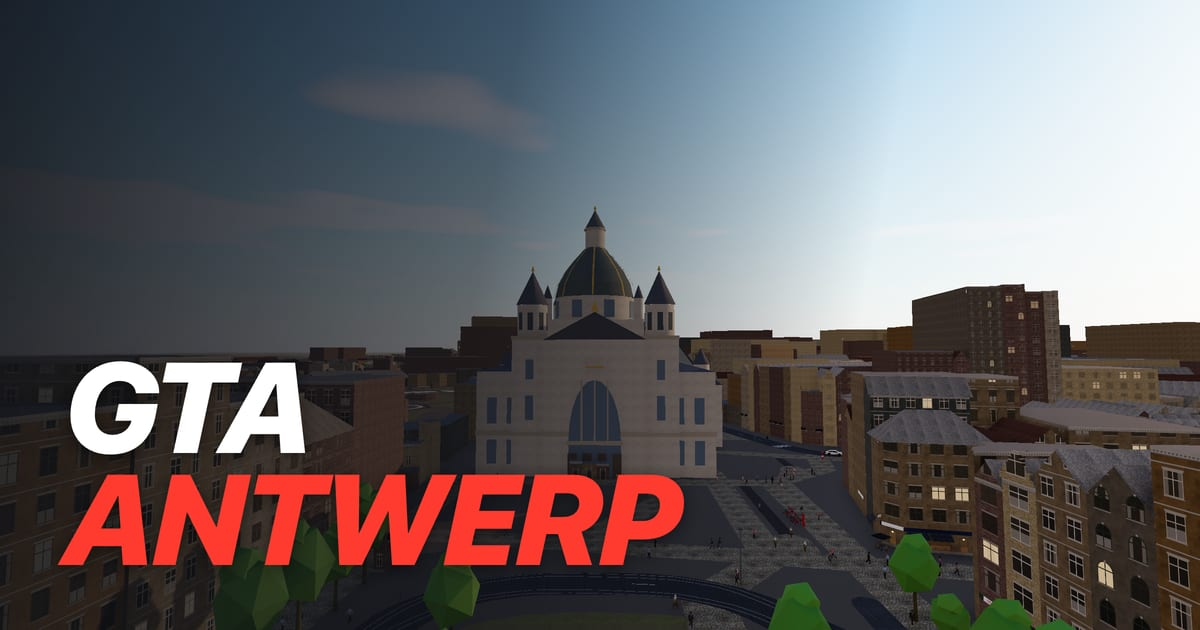
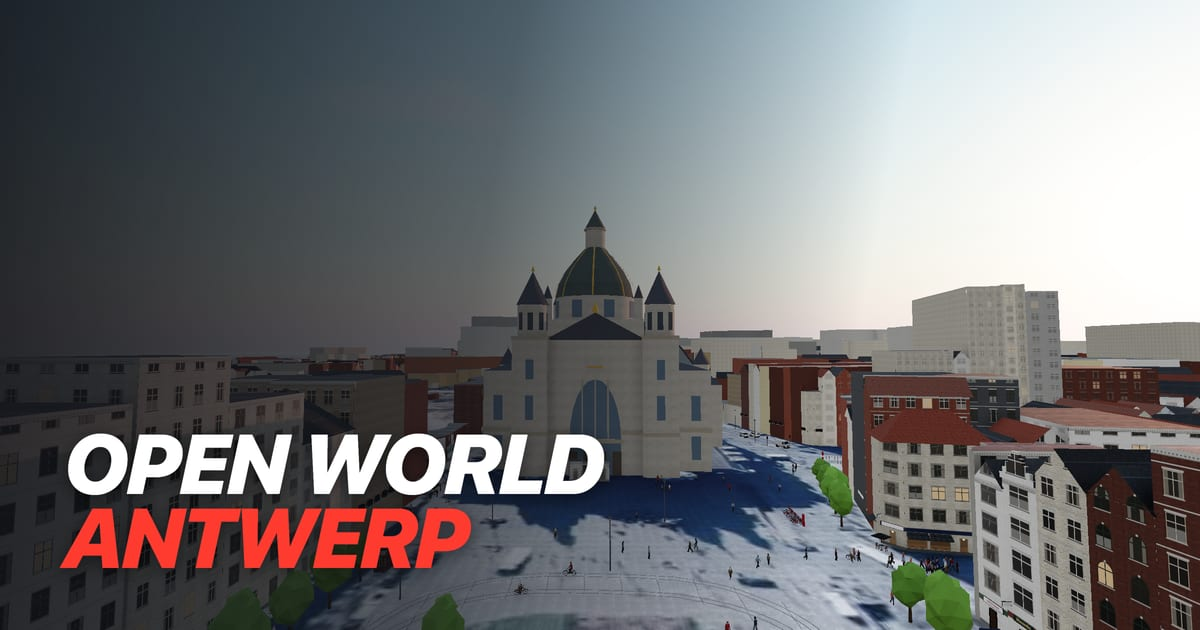
chore: rename project to Open World Antwerp and remove GTA references

diff --git a/index.html b/index.html
@@ -3,28 +3,28 @@
   <head>
     <meta charset="UTF-8" />
     <meta name="viewport" content="width=device-width, initial-scale=1.0, maximum-scale=1.0, user-scalable=no" />
-    <title>GTA Antwerp</title>
+    <title>Open World Antwerp</title>
     <meta name="description" content="Steal a car, drive a tram, ride a Velo bike: a real 1:1 slice of Antwerp, playable in your browser. No install, no sign-up." />
     <meta name="theme-color" content="#1b1d22" />
     <link rel="icon" href="/favicon.ico" sizes="32x32" />
     <link rel="icon" href="/favicon.svg" type="image/svg+xml" />
     <link rel="apple-touch-icon" href="/apple-touch-icon.png" />
     <meta property="og:type" content="website" />
-    <meta property="og:site_name" content="GTA Antwerp" />
-    <meta property="og:title" content="GTA Antwerp" />
+    <meta property="og:site_name" content="Open World Antwerp" />
+    <meta property="og:title" content="Open World Antwerp" />
     <meta property="og:description" content="Steal a car, drive a tram, ride a Velo bike: a real 1:1 slice of Antwerp, playable in your browser. No install, no sign-up." />
     <meta property="og:url" content="%SITE_URL%/" />
     <meta property="og:image" content="%SITE_URL%/og.jpg" />
     <meta property="og:image:width" content="1200" />
     <meta property="og:image:height" content="630" />
-    <meta property="og:image:alt" content="Antwerp Centraal Station from above, with the GTA Antwerp title" />
+    <meta property="og:image:alt" content="Antwerp Centraal Station from above, with the Open World Antwerp title" />
     <meta name="twitter:card" content="summary_large_image" />
   </head>
   <body class="on-title">
     <canvas id="game"></canvas>
     <div id="title">
       <div class="card">
-        <h1>GTA <span>Antwerp</span></h1>
+        <h1>Open World <span>Antwerp</span></h1>
         <p class="tagline">A real 1:1 slice of Antwerp, right in your browser. Steal a car, take the tram, ride a Velo bike, walk into any shop.</p>
         <dl class="controls keys">
           <dt><kbd>W</kbd><kbd>A</kbd><kbd>S</kbd><kbd>D</kbd></dt><dd>Walk, drive</dd>
@@ -40,7 +40,6 @@
         <p class="more touch">Tap the minimap to pick where to go. The rest is explained as you go.</p>
         <div id="loading"><span>Loading Antwerp…</span><div class="bar"><div></div></div></div>
         <button class="play" type="button" hidden>Play</button>
-        <p class="fine">Not affiliated with Rockstar Games or Take-Two Interactive.</p>
       </div>
     </div>
     <div id="stats"></div>
@@ -53,7 +52,6 @@
           Buildings: <a href="https://www.vlaanderen.be/digitaal-vlaanderen/onze-diensten-en-platformen/basiskaart-vlaanderen-grb/3d-grb" target="_blank" rel="noopener">GRB, Digitaal Vlaanderen</a><br />
           People: <a href="/people/LICENSE.txt" target="_blank" rel="noopener">Microsoft Rocketbox</a><br />
           Radio: live streams from VRT and DPG Media<br />
-          Not affiliated with Rockstar Games or Take-Two Interactive<br />
           <a href="/map/logos.html" target="_blank" rel="noopener">Not affiliated with any brand shown</a>
         </div>
       </details>

diff --git a/src/style.css b/src/style.css
@@ -5,7 +5,7 @@ body.on-title > :not(#title, #game, #credits) { visibility: hidden; }
 #title { position: fixed; inset: 0; z-index: 10; display: grid; align-items: end; padding: 6vh 6vw; overflow-y: auto; background: linear-gradient(100deg, rgb(15 17 22 / 0.9) 0%, rgb(15 17 22 / 0.6) 40%, rgb(15 17 22 / 0) 70%); transition: opacity 0.5s; }
 #title.gone { opacity: 0; pointer-events: none; }
 #title .card { max-width: 420px; }
-#title h1 { margin: 0; font: italic 900 76px/0.88 system-ui, sans-serif; letter-spacing: -0.02em; text-transform: uppercase; text-shadow: 0 4px 18px rgb(0 0 0 / 0.5); }
+#title h1 { margin: 0; font: italic 900 min(64px, 13vw)/0.88 system-ui, sans-serif; letter-spacing: -0.02em; text-transform: uppercase; white-space: nowrap; text-shadow: 0 4px 18px rgb(0 0 0 / 0.5); }
 #title h1 span { display: block; color: #ff3b30; }
 #title .tagline { margin: 16px 0 22px; font-size: 16px; line-height: 1.45; color: rgb(255 255 255 / 0.9); }
 #title .controls { display: grid; grid-template-columns: auto 1fr; align-items: center; gap: 7px 14px; margin: 0 0 14px; font-size: 14px; }
@@ -15,7 +15,6 @@ body.on-title > :not(#title, #game, #credits) { visibility: hidden; }
 #title dd { margin: 0; color: rgb(255 255 255 / 0.85); }
 #title kbd { display: inline-block; min-width: 14px; margin-right: 3px; padding: 2px 6px; border-radius: 5px; border: 1px solid rgb(255 255 255 / 0.35); border-bottom-width: 2px; background: rgb(255 255 255 / 0.08); font: 700 12px system-ui, sans-serif; text-align: center; }
 #title .touch { display: none; }
-#title .fine { margin: 14px 0 0; font-size: 11px; color: rgb(255 255 255 / 0.5); }
 #loading { height: 52px; display: flex; flex-direction: column; justify-content: center; gap: 10px; font-size: 18px; font-weight: 600; }
 #loading span { animation: loading-pulse 1s ease-in-out infinite alternate; }
 #loading .bar { width: 220px; height: 6px; border-radius: 3px; background: rgb(255 255 255 / 0.2); overflow: hidden; }
@@ -25,12 +24,11 @@ body.on-title > :not(#title, #game, #credits) { visibility: hidden; }
 #title .play:hover { background: #ffd60a; }
 @media (pointer: coarse) {
   #title { background: linear-gradient(to top, rgb(15 17 22 / 0.92) 0%, rgb(15 17 22 / 0.7) 55%, rgb(15 17 22 / 0.2) 100%); }
-  #title h1 { font-size: 54px; }
   #title .tagline { font-size: 15px; }
   #title .keys { display: none; }
   #title .touch { display: grid; }
 }
-@media (max-height: 520px) {
+@media (max-height: 520px) and (orientation: landscape) {
   #title { padding: 4vh 5vw; }
   #title .card { max-width: none; display: grid; grid-template-columns: auto minmax(0, 360px); column-gap: 32px; align-items: end; }
   #title h1 { font-size: 44px; grid-row: span 2; }

diff --git a/src/net/multiplayer.ts b/src/net/multiplayer.ts
@@ -441,7 +441,7 @@ export class Multiplayer {
     const url = `${location.origin}${location.pathname}`;
     try {
       if (navigator.share && coarsePointer()) {
-        await navigator.share({ title: 'GTA Antwerp', text: 'Come drive around Antwerp with me', url });
+        await navigator.share({ title: 'Open World Antwerp', text: 'Come drive around Antwerp with me', url });
       } else {
         await navigator.clipboard.writeText(url);
         this.chat.system('Invite link copied. Friends who open it join you here.');
@@ -469,9 +469,9 @@ function stored(key: string, value?: string): string | null {
 function pickName(params: URLSearchParams): string {
   const name =
     cleanName(params.get('name')) ||
-    cleanName(stored('gta-antwerp.name')) ||
+    cleanName(stored('open-world-antwerp.name')) ||
     `${pick(NICKNAMES)} ${100 + Math.floor(Math.random() * 900)}`;
-  return stored('gta-antwerp.name', name) ?? name;
+  return stored('open-world-antwerp.name', name) ?? name;
 }
 
 function avatarFor(crowd: Crowd, look: string): number {

diff --git a/tools/map/logos.ts b/tools/map/logos.ts
@@ -87,10 +87,10 @@ export async function loadLogos(): Promise<Logos> {
 <html lang="en">
 <meta charset="utf-8" />
 <meta name="viewport" content="width=device-width, initial-scale=1" />
-<title>GTA Antwerp: names and logos</title>
+<title>Open World Antwerp: names and logos</title>
 <style>body { font: 15px/1.5 system-ui, sans-serif; max-width: 42em; margin: 2em auto; padding: 0 1em; color: #222; }</style>
 <h1>Names and logos on signs</h1>
-<p>GTA Antwerp is a free, non-commercial hobby game. It is not affiliated with, sponsored or endorsed by any business
+<p>Open World Antwerp is a free, non-commercial hobby game. It is not affiliated with, sponsored or endorsed by any business
 or organisation whose name or logo appears in it. Names and logos are shown only to depict the city as it really is,
 and remain the trademarks of their owners.</p>
 <p>Shop and venue names come from <a href="https://www.openstreetmap.org/copyright">OpenStreetMap</a>.${credits.length ? ` The logos

diff --git a/tools/dev/og.ts b/tools/dev/og.ts
@@ -4,10 +4,10 @@ import { DEV, load, open } from './probe.ts';
 
 const [base = DEV] = process.argv.slice(2);
 const { browser, page } = await open({ context: { viewport: { width: 1200, height: 630 }, deviceScaleFactor: 2 } });
-await load(page, `${base}/?title&nologos&solo&quality=high`, 90_000);
+await load(page, `${base}/?title&nologos&solo&quality=high&time=16&weather=clear`, 90_000);
 await page.addStyleTag({
-  content: `#title .tagline, #title .controls, #title .play, #credits { display: none !important; }
-    #title { padding: 0 0 56px 64px; } #title h1 { font-size: 128px; }`,
+  content: `#title .tagline, #title .controls, #title .more, #title .play, #credits { display: none !important; }
+    #title { padding: 0 0 56px 64px; } #title h1 { font-size: 84px; }`,
 });
 await page.waitForTimeout(3000);
 await sharp(await page.screenshot()).resize(1200, 630).jpeg({ quality: 82, mozjpeg: true }).toFile('public/og.jpg');

diff --git a/public/map/logos.html b/public/map/logos.html
@@ -2,10 +2,10 @@
 <html lang="en">
 <meta charset="utf-8" />
 <meta name="viewport" content="width=device-width, initial-scale=1" />
-<title>GTA Antwerp: names and logos</title>
+<title>Open World Antwerp: names and logos</title>
 <style>body { font: 15px/1.5 system-ui, sans-serif; max-width: 42em; margin: 2em auto; padding: 0 1em; color: #222; }</style>
 <h1>Names and logos on signs</h1>
-<p>GTA Antwerp is a free, non-commercial hobby game. It is not affiliated with, sponsored or endorsed by any business
+<p>Open World Antwerp is a free, non-commercial hobby game. It is not affiliated with, sponsored or endorsed by any business
 or organisation whose name or logo appears in it. Names and logos are shown only to depict the city as it really is,
 and remain the trademarks of their owners.</p>
 <p>Shop and venue names come from <a href="https://www.openstreetmap.org/copyright">OpenStreetMap</a>. The logos

diff --git a/.railway/railway.ts b/.railway/railway.ts
@@ -5,7 +5,7 @@ export const partial = 'relay';
 /** The game itself is on Vercel, built with VITE_MULTIPLAYER_URL pointing here. */
 export default defineRailway(() => {
   const relay = service('relay', {
-    source: github('noahg9/gta-antwerp', { branch: 'main' }),
+    source: github('guerinnoah/open-world-antwerp', { branch: 'main' }),
     // client-only pushes would otherwise restart the relay and drop everyone
     build: { builder: 'RAILPACK', watchPatterns: ['server/**', 'src/net/protocol.ts', 'package.json', 'pnpm-lock.yaml'] },
     start: 'node server/main.ts',
@@ -14,7 +14,7 @@ export default defineRailway(() => {
     env: { TRUST_PROXY: '1' }, // behind Railway's proxy: per-address limits read X-Forwarded-For
   });
 
-  return project('gta-antwerp', {
+  return project('open-world-antwerp', {
     variables: { managed: true },
     resources: [relay],
   });

diff --git a/tools/map/fetch-districts.ts b/tools/map/fetch-districts.ts
@@ -13,7 +13,7 @@ const query = `[out:json][timeout:120];(way["place"~"^(quarter|suburb)$"](${b});
 console.log('Querying Overpass for quarters…');
 const res = await fetch(ENDPOINT, {
   method: 'POST',
-  headers: { 'Content-Type': 'application/x-www-form-urlencoded', 'User-Agent': 'gta-antwerp-map-pipeline/0.1' },
+  headers: { 'Content-Type': 'application/x-www-form-urlencoded', 'User-Agent': 'open-world-antwerp-map-pipeline/0.1' },
   body: new URLSearchParams({ data: query }),
 });
 if (!res.ok) throw new Error(`Overpass ${res.status}: ${(await res.text()).slice(0, 500)}`);

diff --git a/tools/assets/fetch-people.ts b/tools/assets/fetch-people.ts
@@ -35,7 +35,7 @@ const REPO = 'microsoft/Microsoft-Rocketbox';
 const RAW = `https://raw.githubusercontent.com/${REPO}/master/Assets`;
 const API = `https://api.github.com/repos/${REPO}/contents/Assets`;
 const OUT = 'data/raw/people';
-const ua = { headers: { 'User-Agent': 'gta-antwerp-asset-pipeline/0.1' } };
+const ua = { headers: { 'User-Agent': 'open-world-antwerp-asset-pipeline/0.1' } };
 const exists = (p: string) => access(p).then(() => true, () => false);
 
 async function download(url: string, file: string) {

diff --git a/tools/map/fetch.ts b/tools/map/fetch.ts
@@ -44,7 +44,7 @@ out geom;
 console.log('Querying Overpass…');
 const res = await fetch(ENDPOINT, {
   method: 'POST',
-  headers: { 'Content-Type': 'application/x-www-form-urlencoded', 'User-Agent': 'gta-antwerp-map-pipeline/0.1' },
+  headers: { 'Content-Type': 'application/x-www-form-urlencoded', 'User-Agent': 'open-world-antwerp-map-pipeline/0.1' },
   body: new URLSearchParams({ data: query }),
 });
 if (!res.ok) throw new Error(`Overpass ${res.status}: ${(await res.text()).slice(0, 500)}`);

diff --git a/src/audio/sound.ts b/src/audio/sound.ts
@@ -1,8 +1,8 @@
 import { Radio, STATIONS, type RadioStatus, type Station } from './radio';
 
-const MUTE_KEY = 'gta-antwerp-muted';
-const STATION_KEY = 'gta-antwerp-station';
-const RADIO_OFF_KEY = 'gta-antwerp-radio-off';
+const MUTE_KEY = 'open-world-antwerp-muted';
+const STATION_KEY = 'open-world-antwerp-station';
+const RADIO_OFF_KEY = 'open-world-antwerp-radio-off';
 const GEARS = [0, 18, 38, 62, 92, 140]; // km/h where each gear starts
 const IDLE_RPM = 850;
 const MAX_RPM = 5600;

diff --git a/tools/map/fetch-logos.ts b/tools/map/fetch-logos.ts
@@ -4,7 +4,7 @@ import { RAW_DIR } from './config.ts';
 import { logoItemsOf } from './signs.ts';
 
 const DIR = `${RAW_DIR}/logos`;
-const HEADERS = { 'User-Agent': 'gta-antwerp-map-pipeline/0.1 (non-commercial hobby game)' };
+const HEADERS = { 'User-Agent': 'open-world-antwerp-map-pipeline/0.1 (non-commercial hobby game)' };
 
 export interface LogoEntry {
   label: string;
